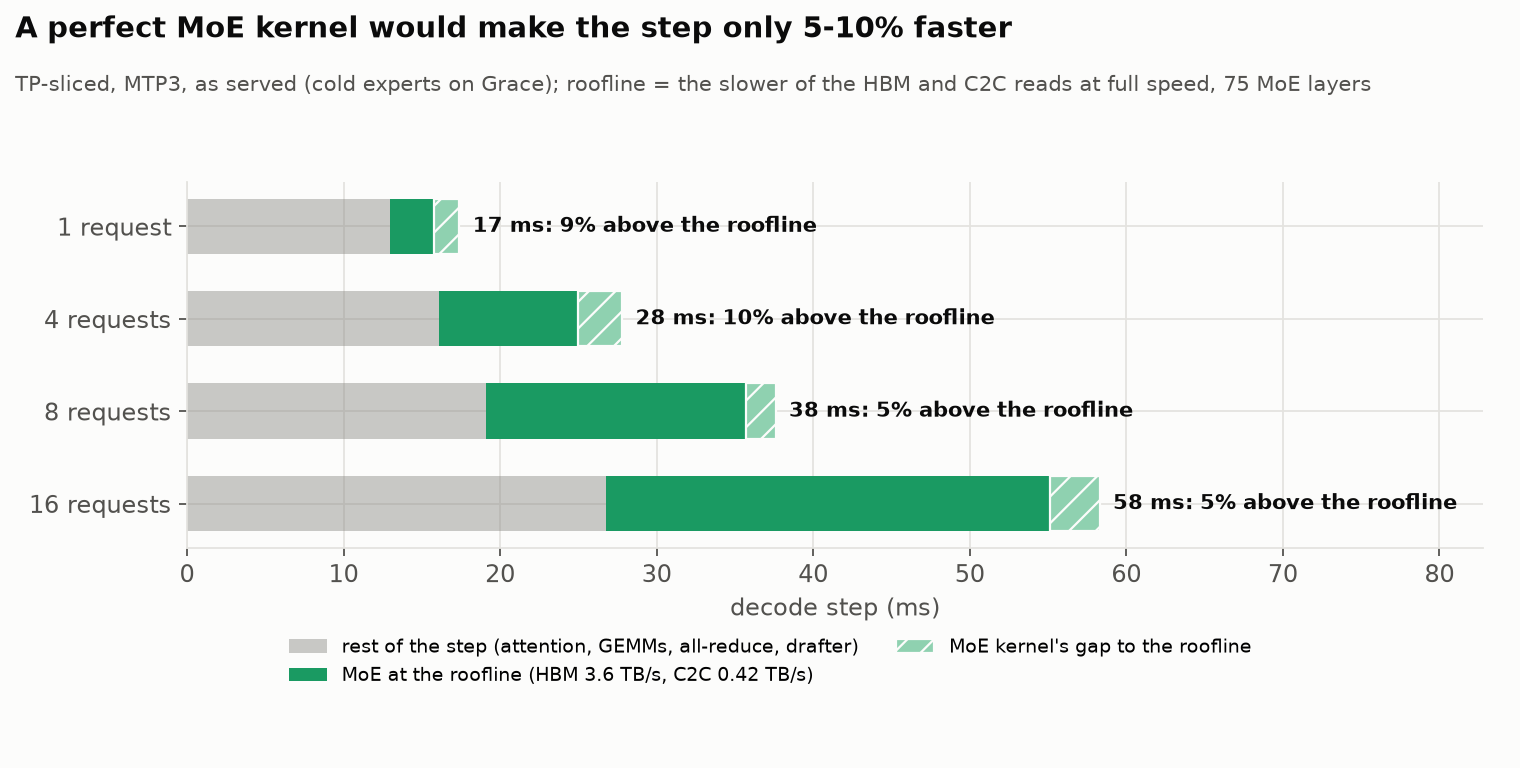
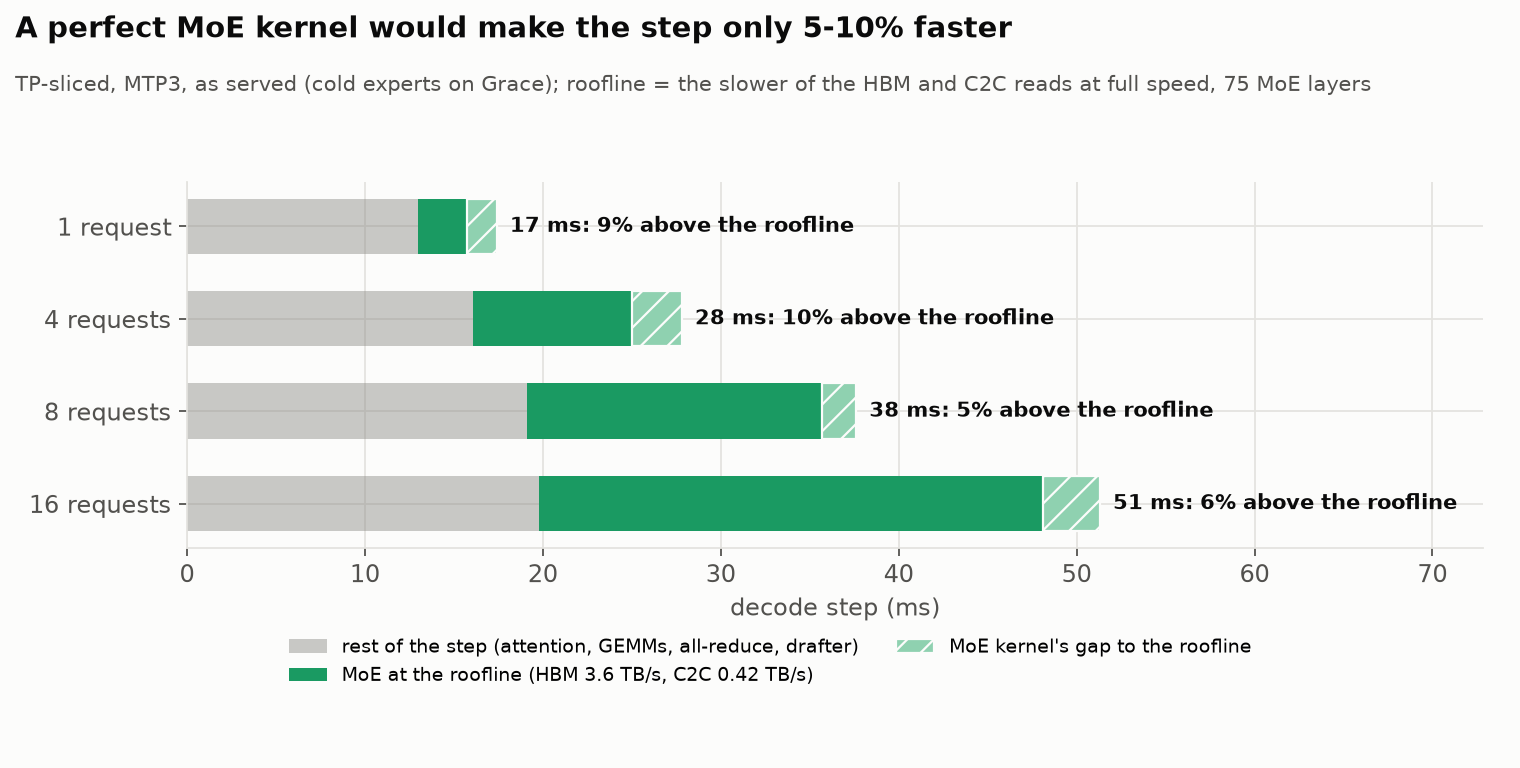
GLM TP-sliced: c16 measured from a trace, residency per config, 8 -> 16 breakdown
Claude-Session: https://claude.ai/code/session_01LNroM82coRpqoyBf9WF9ZV

diff --git a/glm/tp-sliced/README.md b/glm/tp-sliced/README.md
@@ -88,11 +88,14 @@ scripts) with expert parallelism off and no replicas:
   per GPU depending on the HBM reserve, the same residency as EP's ~3,400-3,700
   whole experts.
 
-| config | drafter | max requests | KV pool | HBM reserve | hot slices / GPU |
-| --- | --- | ---: | ---: | ---: | ---: |
-| prod (Claude Code) | DFlash2 k=7 | 1 | 400K | 1.7 GiB | 14,748 |
-| c=8 | MTP3 | 8 | 1.6M (`VLLM_TIERED_MOE_KV_POOL_SEQS=4`) | 3.6 GiB | 13,614 |
-| c=16 | MTP3 | 16 | 1.6M | 4.0 GiB | 13,528 |
+| config | drafter | max requests | KV pool | HBM reserve | hot slices / GPU (≈ whole experts) | EP, whole experts / GPU |
+| --- | --- | ---: | ---: | ---: | ---: | ---: |
+| prod (Claude Code) | DFlash2 k=7 | 1 | 400K | 1.7 GiB | 14,748 (3,687) | 3,671 |
+| c=8 | MTP3 | 8 | 1.6M (`VLLM_TIERED_MOE_KV_POOL_SEQS=4`) | 3.6 GiB | 13,614 (3,404) | 3,381 |
+| c=16 | MTP3 | 16 | 1.6M | 4.0 GiB | 13,528 (3,382) | - |
+
+Out of 19,200 experts (75 layers x 256), that's 70-77% hot. The MTP3
+configs keep ~300 fewer because they need a bigger HBM reserve.
 
 c=16 also captures CUDA graphs every 4 tokens up to 64. The Claude Code
 launcher is `claude-glm53-sliced-df2-dcp4.sh` in the vLLM tree; the c=16
@@ -171,7 +174,7 @@ the real runs.
 | expert bytes read from Grace | 9% | 11% | 13% | 17% |
 | MoE kernel vs all in HBM, ideal | -9% | -2% | +16% | +42% |
 | MoE kernel vs all in HBM, measured | -1% | +3% | +4% | +23% |
-| extra time per decode step | 0 | 0.4 ms | 0.8 ms | 5.8 ms (10%) |
+| extra time per decode step | 0 | 0.4 ms | 0.8 ms | 5.3 ms (10%) |
 
 - **Up to 8 requests, offloading is nearly free**: at most 0.8 ms of a ~38 ms
   step (2%). At 16 it costs ~10%.
@@ -205,7 +208,7 @@ the real runs.
 
 A perfect MoE kernel reads hot experts at HBM's full 3.6 TB/s and cold ones
 at C2C's full 0.42 TB/s, both at once, so each layer takes as long as the
-slower of the two. Measured against that, our MoE kernel leaves only **5% of
+slower of the two. Measured against that, our MoE kernel leaves only **5-6% of
 the decode step** on the table at 8 and 16 requests, and 9-10% at 1-4.
 
 ![decode step vs a roofline MoE kernel](figs/glm-moe-headroom.png)
@@ -213,7 +216,7 @@ the decode step** on the table at 8 and 16 requests, and 9-10% at 1-4.
 | requests in flight | 1 | 4 | 8 | 16 |
 | --- | ---: | ---: | ---: | ---: |
 | MoE per layer, today / roofline (us) | 59 / 37 | 156 / 119 | 246 / 221 | 420 / 378 |
-| decode step saved by a perfect kernel | 1.6 ms (9%) | 2.8 ms (10%) | 1.9 ms (5%) | 3.2 ms (5%) |
+| decode step saved by a perfect kernel | 1.6 ms (9%) | 2.8 ms (10%) | 1.9 ms (5%) | 3.2 ms (6%) |
 
 From 4 requests on, the Grace link is the slower read, so it sets the
 roofline, and no kernel can beat it. The rest of the step (attention, dense
@@ -230,8 +233,21 @@ int4 keeps the SMs ~57% busy, and that's the 5-10% above.
 - **The MoE kernel** is 5-10% of the step from its roofline (above).
 - **Prefill** is 4-8% slower than EP.
 - **Dense GEMMs** above 32 tokens run on cuBLAS.
-- **Where the extra ~19 ms per step from 8 to 16 requests goes** hasn't been
-  profiled yet.
+- **Going from 8 to 16 requests** (5K context, Nsight Systems; decode steps
+  only, all 16 requests decoding) the step grows from 37.6 to 51.3 ms:
+
+  | ms per step | 8 requests | 16 requests |
+  | --- | ---: | ---: |
+  | MoE kernels | 19.8 | 28.3 |
+  | dense GEMMs | 5.1 | 5.6 |
+  | DCP collectives | 3.0 | 4.8 |
+  | attention | 2.0 | 3.1 |
+  | all-reduce + norm | 2.1 | 2.7 |
+  | outside the verify graph (drafter, sampling) | 2.6 | 3.2 |
+  | everything else, idle | 3.0 | 3.6 |
+
+  Most of the growth (8.5 of 13.7 ms) is the MoE: twice the tokens touch
+  ~40% more experts, and more of them are cold.
 
 ## Where the data is
 
